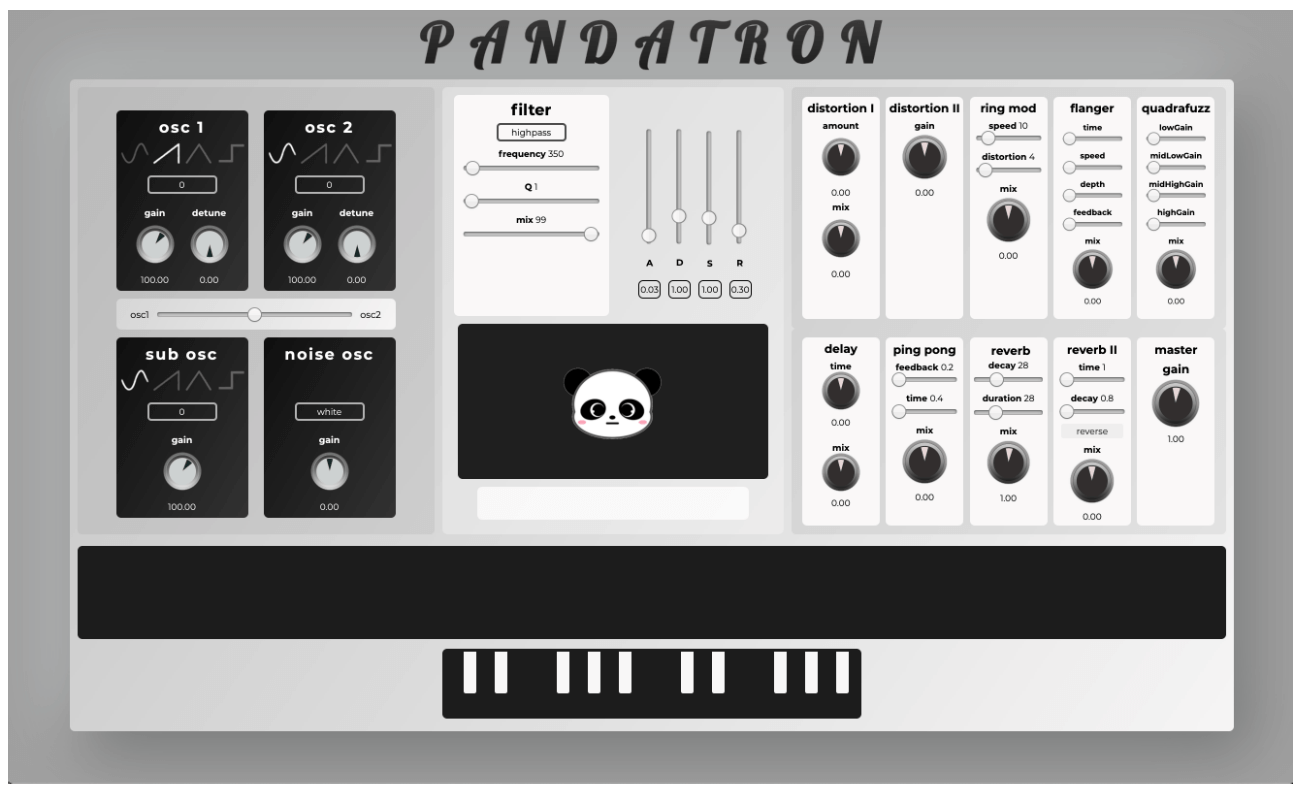
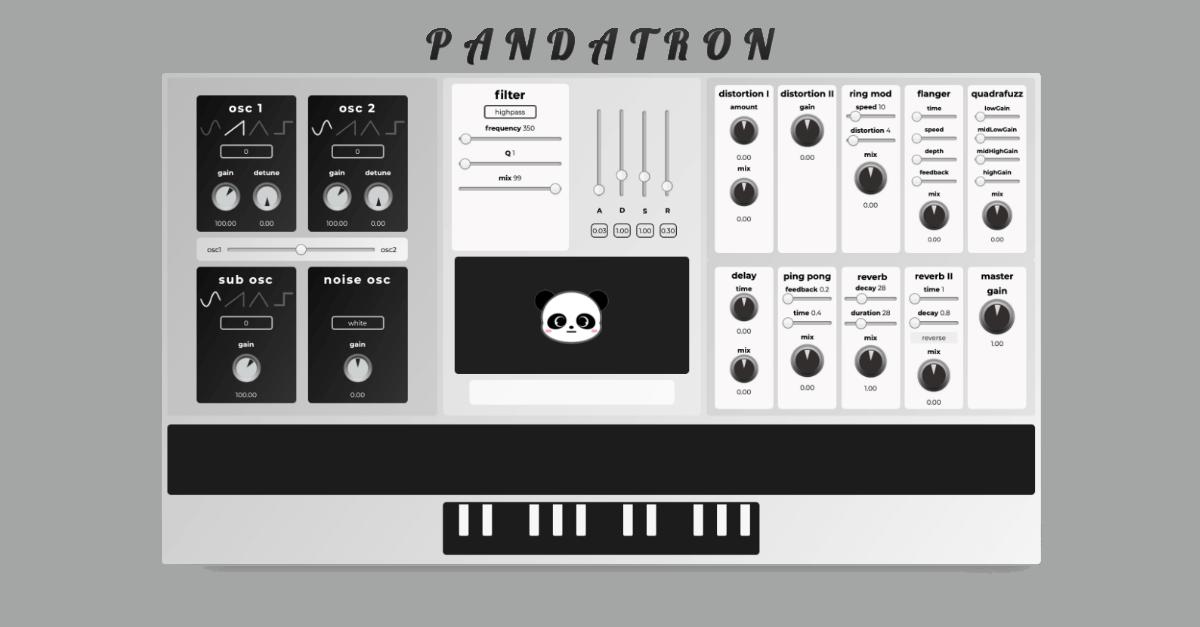
minified preview pic

diff --git a/client/src/App.js b/client/src/App.js
@@ -2,6 +2,8 @@ import React from 'react';
 import Basic from 'components/Basic/Basic';
 import logo from 'imgs/logo/pandatronlogogradient.png';
 import './App.scss';
+import preview from 'imgs/preview/pandatronpreview.png';
+console.log('preview url: ', preview);
 
 function App() {
   return (
